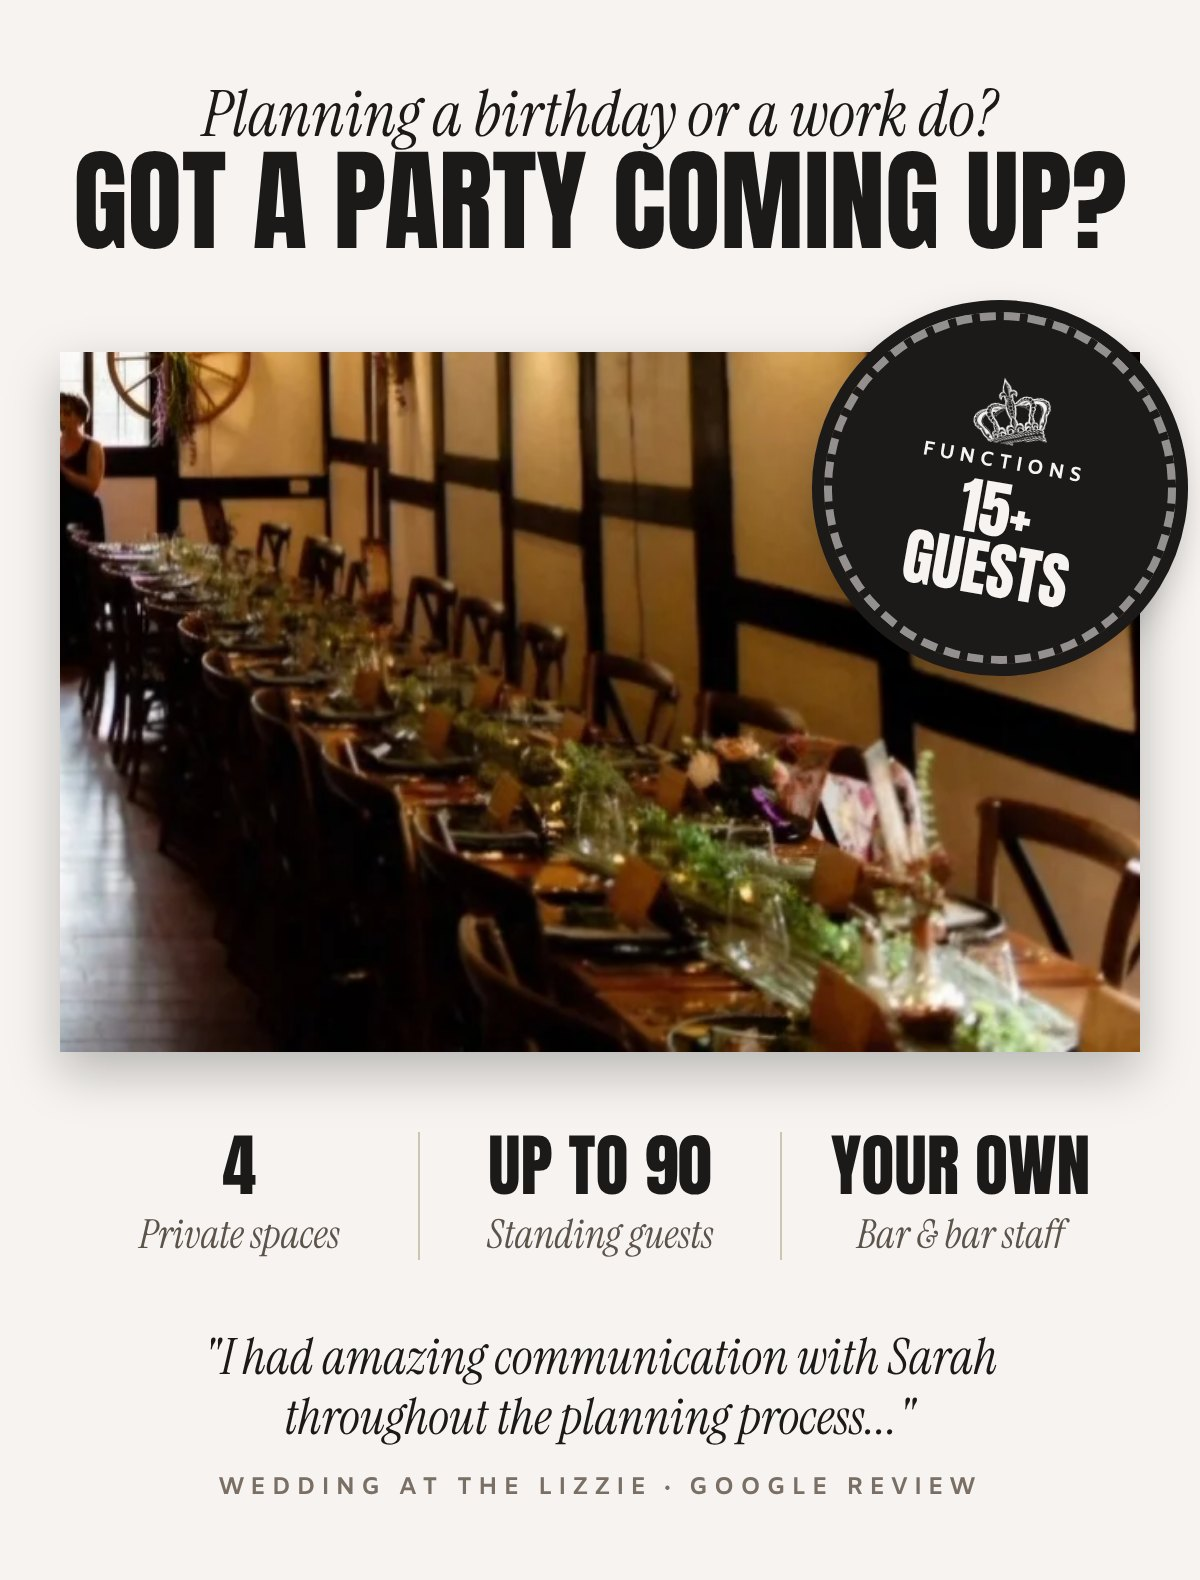
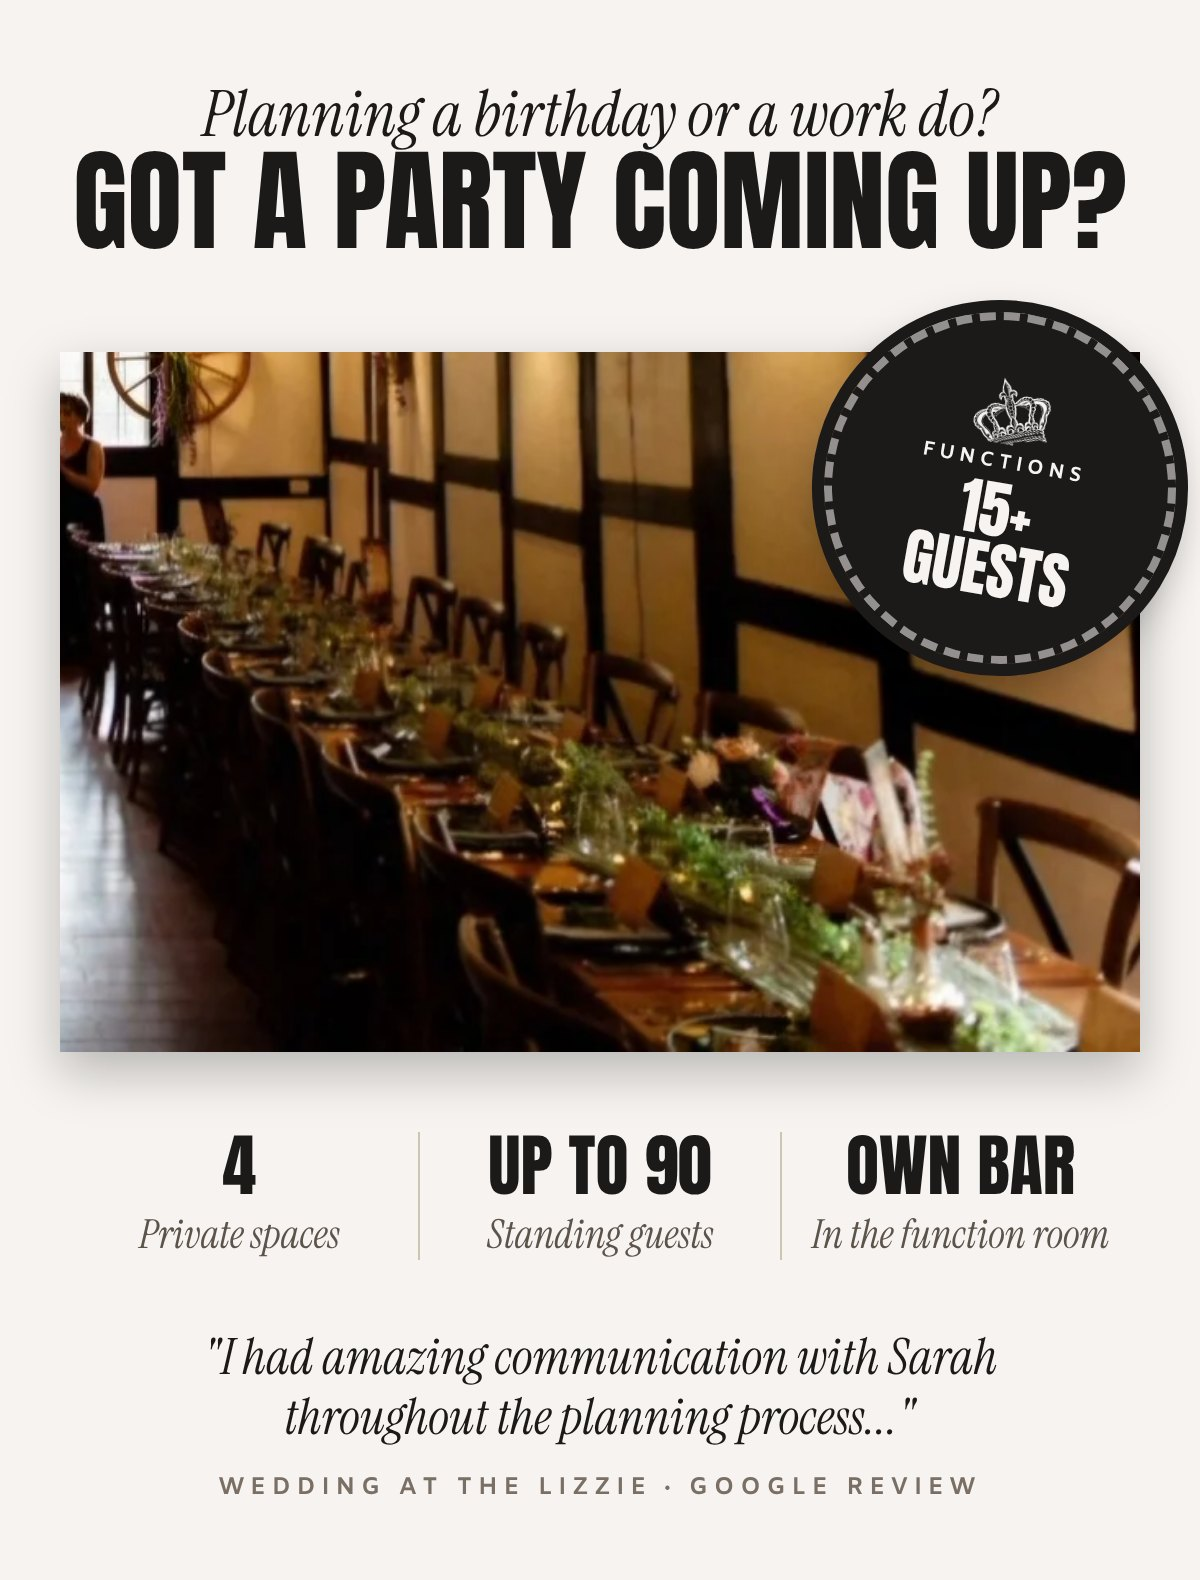
Planning page: match emails to how bookings actually work (15-19 groups, room hire, bar)
Claude-Session: https://claude.ai/code/session_01JNj2JeQGYZLpLPwVj3fL53

Changed region(s): [[0.6783, 0.7133, 0.925, 0.8063]]

diff --git a/last-drop-elizabethan/plan/e-christmas.html b/last-drop-elizabethan/plan/e-christmas.html
@@ -16,9 +16,9 @@ img{display:block;width:600px;max-width:100%;height:auto}
 <a href="mailto:info@lastdropelizabethan.com?subject=Christmas%20booking%20%28from%20your%20email%29&body=Hi%20Lizzie%20team%2C%0A%0AWe%27d%20love%20to%20book%20Christmas%20at%20the%20Lizzie.%0A%0ADate%3A%0ANumber%20of%20guests%20%2820%2B%29%3A%0ASpace%20we%27d%20like%3A%0ARoast%20%28%2430%29%20or%20roast%20%2B%20pavlova%20%28%2436%29%3A%0AName%20and%20phone%3A%0A%0AThanks%21"><img src="img/lizzie-christmas-hero-v6.jpg" alt="Christmas for the whole crew. $30 a head, 28 November to Christmas Eve, book by 17 December."></a>
 <div class="t"><p>Hi, Sarah here. I look after functions at the Lizzie.</p><p>Our Christmas menu starts this Saturday, 28 November, and runs until Christmas Eve. It's roast turkey and pork with crackling, Yorkshire puddings and all the sides for $30 a head, or $36 with pavlova, for groups of 20 or more.</p><p>If you're the one organising the work do this year, email me your date and numbers and I'll take it from there. Everything's prepaid 7 days ahead, so the sooner you book, the more dates you'll have to choose from.</p></div>
 <div class="b" style="padding-bottom:12px"><a href="mailto:info@lastdropelizabethan.com?subject=Christmas%20booking%20%28from%20your%20email%29&body=Hi%20Lizzie%20team%2C%0A%0AWe%27d%20love%20to%20book%20Christmas%20at%20the%20Lizzie.%0A%0ADate%3A%0ANumber%20of%20guests%20%2820%2B%29%3A%0ASpace%20we%27d%20like%3A%0ARoast%20%28%2430%29%20or%20roast%20%2B%20pavlova%20%28%2436%29%3A%0AName%20and%20phone%3A%0A%0AThanks%21">Email Sarah</a></div>
-<div class="t small" style="padding-top:0;padding-bottom:30px">Not the organiser? Forward this to whoever is.<br>Fewer than 20 of you? The Christmas roast is on every weekend until Christmas, and you can <a href="https://bookings.nowbookit.com/?accountid=58cf4dc2-efec-44b6-9343-872a46e872fb&venueid=7196&theme=light&colors=hex%2C000000">book a table online</a>.</div>
+<div class="t small" style="padding-top:0;padding-bottom:30px">Not the organiser? Forward this to whoever is.<br>Fewer than 20 of you? The Christmas roast is on every weekend until Christmas. For up to 14 people you can <a href="https://bookings.nowbookit.com/?accountid=58cf4dc2-efec-44b6-9343-872a46e872fb&venueid=7196&theme=light&colors=hex%2C000000">book a table online</a>, and for 15 to 19, just email me.</div>
 <a href="mailto:info@lastdropelizabethan.com?subject=Christmas%20booking%20%28from%20your%20email%29&body=Hi%20Lizzie%20team%2C%0A%0AWe%27d%20love%20to%20book%20Christmas%20at%20the%20Lizzie.%0A%0ADate%3A%0ANumber%20of%20guests%20%2820%2B%29%3A%0ASpace%20we%27d%20like%3A%0ARoast%20%28%2430%29%20or%20roast%20%2B%20pavlova%20%28%2436%29%3A%0AName%20and%20phone%3A%0A%0AThanks%21"><img src="img/lizzie-christmas-menu-v5.jpg" alt="The Christmas roast: roast turkey and pork with crackling, rosemary chats, pumpkin and honey carrot, peas, Yorkshire pudding, red wine gravy and cranberry sauce, then Christmas pavlova. $30 the roast, $36 with pavlova. Seniors $25, or $31 with pavlova."></a>
-<a href="mailto:info@lastdropelizabethan.com?subject=Christmas%20booking%20%28from%20your%20email%29&body=Hi%20Lizzie%20team%2C%0A%0AWe%27d%20love%20to%20book%20Christmas%20at%20the%20Lizzie.%0A%0ADate%3A%0ANumber%20of%20guests%20%2820%2B%29%3A%0ASpace%20we%27d%20like%3A%0ARoast%20%28%2430%29%20or%20roast%20%2B%20pavlova%20%28%2436%29%3A%0AName%20and%20phone%3A%0A%0AThanks%21"><img src="img/lizzie-christmas-spaces-v5.jpg" alt="Room for the crew: the Leo Fowler Room (10 to 60 seated), the Courtyard (10 to 50), the Upper Terrace (10 to 60) and the Village Green (20 to 70). Minimum spends apply."></a>
+<a href="mailto:info@lastdropelizabethan.com?subject=Christmas%20booking%20%28from%20your%20email%29&body=Hi%20Lizzie%20team%2C%0A%0AWe%27d%20love%20to%20book%20Christmas%20at%20the%20Lizzie.%0A%0ADate%3A%0ANumber%20of%20guests%20%2820%2B%29%3A%0ASpace%20we%27d%20like%3A%0ARoast%20%28%2430%29%20or%20roast%20%2B%20pavlova%20%28%2436%29%3A%0AName%20and%20phone%3A%0A%0AThanks%21"><img src="img/lizzie-christmas-spaces-v5.jpg" alt="Room for the crew: the Leo Fowler Room (10 to 60 seated), the Courtyard (10 to 50), the Upper Terrace (10 to 60) and the Village Green (20 to 70). Room hire and minimum spends may apply."></a>
 <div class="t"><p>To book, email me the date, roughly how many of you there'll be and the space you like the look of. The last day to book for Christmas Eve is 17 December.</p><p class="small">One couple who had their wedding here wrote that they had "amazing communication with Sarah throughout the planning process". Their words, not mine!</p></div>
 <div class="b" style="padding-top:4px"><a href="mailto:info@lastdropelizabethan.com?subject=Christmas%20booking%20%28from%20your%20email%29&body=Hi%20Lizzie%20team%2C%0A%0AWe%27d%20love%20to%20book%20Christmas%20at%20the%20Lizzie.%0A%0ADate%3A%0ANumber%20of%20guests%20%2820%2B%29%3A%0ASpace%20we%27d%20like%3A%0ARoast%20%28%2430%29%20or%20roast%20%2B%20pavlova%20%28%2436%29%3A%0AName%20and%20phone%3A%0A%0AThanks%21">Email Sarah</a></div>
 <a href="https://bookings.nowbookit.com/?accountid=58cf4dc2-efec-44b6-9343-872a46e872fb&venueid=7196&theme=light&colors=hex%2C000000"><img src="img/lizzie-christmas-not20-v5.jpg" alt="Not 20 of you? The Christmas roast is on every weekend until Christmas."></a>

diff --git a/last-drop-elizabethan/plan/e-lastcall.html b/last-drop-elizabethan/plan/e-lastcall.html
@@ -17,6 +17,6 @@ img{display:block;width:600px;max-width:100%;height:auto}
 <a href="mailto:info@lastdropelizabethan.com?subject=Christmas%20booking%20%28from%20your%20email%29&body=Hi%20Lizzie%20team%2C%0A%0AWe%27d%20love%20to%20book%20Christmas%20at%20the%20Lizzie.%0A%0ADate%3A%0ANumber%20of%20guests%20%2820%2B%29%3A%0ASpace%20we%27d%20like%3A%0ARoast%20%28%2430%29%20or%20roast%20%2B%20pavlova%20%28%2436%29%3A%0AName%20and%20phone%3A%0A%0AThanks%21"><img src="img/lizzie-lastcall-dates.jpg" alt="Friday 18 December, book by Friday 11. Saturday 19 December, book by Saturday 12. Christmas Eve, book by Thursday 17."></a>
 <div class="t letter" style="padding-top:18px"><p>It's the same Christmas roast, $30 a head or $36 with pavlova, for groups of 20 or more. <a href="mailto:info@lastdropelizabethan.com?subject=Christmas%20booking%20%28from%20your%20email%29&body=Hi%20Lizzie%20team%2C%0A%0AWe%27d%20love%20to%20book%20Christmas%20at%20the%20Lizzie.%0A%0ADate%3A%0ANumber%20of%20guests%20%2820%2B%29%3A%0ASpace%20we%27d%20like%3A%0ARoast%20%28%2430%29%20or%20roast%20%2B%20pavlova%20%28%2436%29%3A%0AName%20and%20phone%3A%0A%0AThanks%21">Email me</a> your date and numbers and I'll get back to you as soon as I can.</p></div>
 <div class="b" style="padding-top:6px;padding-bottom:20px"><a href="mailto:info@lastdropelizabethan.com?subject=Christmas%20booking%20%28from%20your%20email%29&body=Hi%20Lizzie%20team%2C%0A%0AWe%27d%20love%20to%20book%20Christmas%20at%20the%20Lizzie.%0A%0ADate%3A%0ANumber%20of%20guests%20%2820%2B%29%3A%0ASpace%20we%27d%20like%3A%0ARoast%20%28%2430%29%20or%20roast%20%2B%20pavlova%20%28%2436%29%3A%0AName%20and%20phone%3A%0A%0AThanks%21">Email Sarah</a></div>
-<div class="t letter" style="padding-top:0"><p>Smaller group? The Christmas roast is on this weekend and next. <a href="https://bookings.nowbookit.com/?accountid=58cf4dc2-efec-44b6-9343-872a46e872fb&venueid=7196&theme=light&colors=hex%2C000000">Book a table online</a>.</p><p>Thanks,<br>Sarah</p><p class="small">P.S. If you're stuck for presents, our gift cards start at $25 and we email them straight to the person. <a href="https://giftcards.nowbookit.com/cards/card-selection?accountid=58cf4dc2-efec-44b6-9343-872a46e872fb&venueid=7196&theme=light&accent=00%2C00%2C00">Have a look here</a>.</p></div>
+<div class="t letter" style="padding-top:0"><p>Smaller group? The Christmas roast is on this weekend and next. For up to 14 people, <a href="https://bookings.nowbookit.com/?accountid=58cf4dc2-efec-44b6-9343-872a46e872fb&venueid=7196&theme=light&colors=hex%2C000000">book a table online</a>. For 15 to 19, just email me.</p><p>Thanks,<br>Sarah</p><p class="small">P.S. If you're stuck for presents, our gift cards start at $25 and we email them straight to the person. <a href="https://giftcards.nowbookit.com/cards/card-selection?accountid=58cf4dc2-efec-44b6-9343-872a46e872fb&venueid=7196&theme=light&accent=00%2C00%2C00">Have a look here</a>.</p></div>
 <div style="height:16px"></div>
 <img src="img/lizzie-welcome-signoff.jpg" alt="A pure beer for a wicked world. Last Drop Elizabethan, since 1992."><div class="f">We're closed from 25 December until 5 January.<br><br>You're getting this because you signed up with Last Drop Elizabethan, or said yes to hearing from us when you booked or ordered.<br>Last Drop Elizabethan · 25 Canns Road, Bedfordale WA 6112<br><u>Unsubscribe</u></div></div></body></html>

diff --git a/last-drop-elizabethan/plan/index.html b/last-drop-elizabethan/plan/index.html
@@ -277,6 +277,7 @@ html{scroll-behavior:smooth}
     <label for="qa-offer">A first-visit offer in the welcome email<small>I&#39;ve suggested &ldquo;your first chippies are on us&rdquo;: one small chippies per table, dine in, within 30 days, claimed with the code CREW in the NowBookit booking notes or by showing the email at the bar. Happy to run it, or would you prefer something else or nothing? If yes, does your team see the booking notes?</small><textarea id="qa-offer"></textarea></label>
     <label for="qa-roast">A photo of the Christmas roast<small>Even a phone photo of a plated Christmas roast would help the Christmas emails a lot. Reply to my email with it attached.</small><textarea id="qa-roast"></textarea></label>
     <label for="qa-dates">Your Christmas closing dates<small>You mentioned you&#39;re closed from 25 December until 5 January. Is 5 January the day you reopen, or the last day you&#39;re closed? And what are your hours on Christmas Eve?</small><textarea id="qa-dates"></textarea></label>
+    <label for="qa-hire">Room hire for Christmas groups<small>Your function booklet lists a hire fee for the Leo Fowler Room ($500 to $700) and minimum spends for the other spaces. For a Christmas group of 20+ on the $30 menu, do those still apply? The emails currently say &ldquo;room hire and minimum spends may apply&rdquo;.</small><textarea id="qa-hire"></textarea></label>
     <label for="qa-seniors">The seniors Christmas menu<small>Who can order it (for example, Seniors Card holders, or over a certain age)?</small><textarea id="qa-seniors"></textarea></label>
     <div class="row"><button type="button" id="qa-send">Send my answers</button></div>
     <div class="err" id="qa-err" role="alert"></div>
@@ -494,7 +495,7 @@ html{scroll-behavior:smooth}
 
   /* three minutes for me */
   (function(){
-    var qs = [['qa-spend','Average spend per head'],['qa-photos','Reviews and dog photos'],['qa-offer','First-visit offer'],['qa-roast','Christmas roast photo'],['qa-dates','Closing dates and Christmas Eve hours'],['qa-seniors','Seniors menu']];
+    var qs = [['qa-spend','Average spend per head'],['qa-photos','Reviews and dog photos'],['qa-offer','First-visit offer'],['qa-roast','Christmas roast photo'],['qa-dates','Closing dates and Christmas Eve hours'],['qa-seniors','Seniors menu'],['qa-hire','Room hire for Christmas groups']];
     var btn = document.getElementById('qa-send'), qerr = document.getElementById('qa-err');
     btn.addEventListener('click', async function(){
       var parts = qs.map(function(x){ var v = document.getElementById(x[0]).value.trim(); return v ? x[1] + ': ' + v : ''; }).filter(Boolean);

diff --git a/last-drop-elizabethan/plan/e-welcome.html b/last-drop-elizabethan/plan/e-welcome.html
@@ -19,7 +19,7 @@ img{display:block;width:600px;max-width:100%;height:auto}
 <div class="b" style="padding-top:0"><a href="https://bookings.nowbookit.com/?accountid=58cf4dc2-efec-44b6-9343-872a46e872fb&venueid=7196&theme=light&colors=hex%2C000000">Book a table</a></div>
 <a href="https://www.lastdropelizabethan.com/our-menu"><img src="img/lizzie-welcome-stuff-v5.jpg" alt="The good stuff: beer brewed on site, proper pub grub with the kitchen open 7 days, and live music Friday, Saturday and Sunday."></a>
 <a href="https://bookings.nowbookit.com/?accountid=58cf4dc2-efec-44b6-9343-872a46e872fb&venueid=7196&theme=light&colors=hex%2C000000"><img src="img/lizzie-welcome-reviews.jpg" alt="1,500+ five-star Google reviews."></a>
-<a href="mailto:info@lastdropelizabethan.com?subject=Function%20enquiry%20%28from%20your%20email%29&body=Hi%20Lizzie%20team%2C%0A%0AWe%27re%20planning%20a%20function.%0A%0AOccasion%3A%0ADate%3A%0ANumber%20of%20guests%3A%0ASpace%20we%27d%20like%20%28if%20you%20know%29%3A%0AName%20and%20phone%3A%0A%0AThanks%21"><img src="img/lizzie-welcome-functions-v2.jpg" alt="Got a party coming up? Functions for 15 or more guests, 4 private spaces, up to 90 standing, with your own bar and bar staff."></a>
+<a href="mailto:info@lastdropelizabethan.com?subject=Function%20enquiry%20%28from%20your%20email%29&body=Hi%20Lizzie%20team%2C%0A%0AWe%27re%20planning%20a%20function.%0A%0AOccasion%3A%0ADate%3A%0ANumber%20of%20guests%3A%0ASpace%20we%27d%20like%20%28if%20you%20know%29%3A%0AName%20and%20phone%3A%0A%0AThanks%21"><img src="img/lizzie-welcome-functions-v2.jpg" alt="Got a party coming up? Functions for 15 or more guests, 4 private spaces, up to 90 standing, with its own bar in the function room."></a>
 <div class="b" style="padding-top:0"><a href="mailto:info@lastdropelizabethan.com?subject=Function%20enquiry%20%28from%20your%20email%29&body=Hi%20Lizzie%20team%2C%0A%0AWe%27re%20planning%20a%20function.%0A%0AOccasion%3A%0ADate%3A%0ANumber%20of%20guests%3A%0ASpace%20we%27d%20like%20%28if%20you%20know%29%3A%0AName%20and%20phone%3A%0A%0AThanks%21">Plan your function</a></div>
 <a href="https://www.lastdropelizabethan.com/dogsofthelizzie"><img src="img/lizzie-welcome-dogs-v6.jpg" alt="And yes, bring the dog. Meet some of the regulars from #dogsofthelizzie: Bundy, Bella, Doug, Logan, Reggie and Harry."></a>
 <div class="b ink" style="padding-top:6px"><a href="https://bookings.nowbookit.com/?accountid=58cf4dc2-efec-44b6-9343-872a46e872fb&venueid=7196&theme=light&colors=hex%2C000000">Book a table</a></div>
